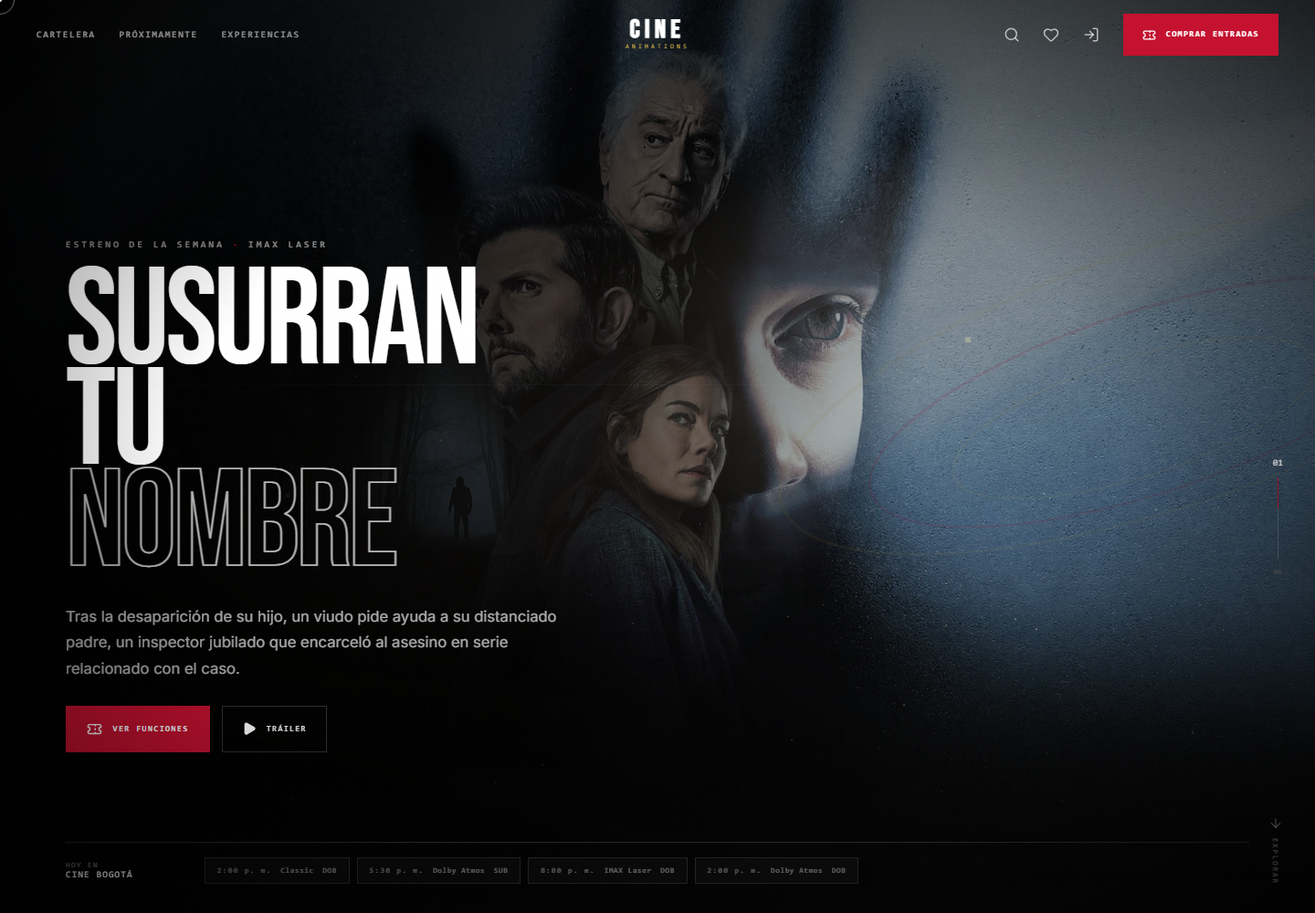
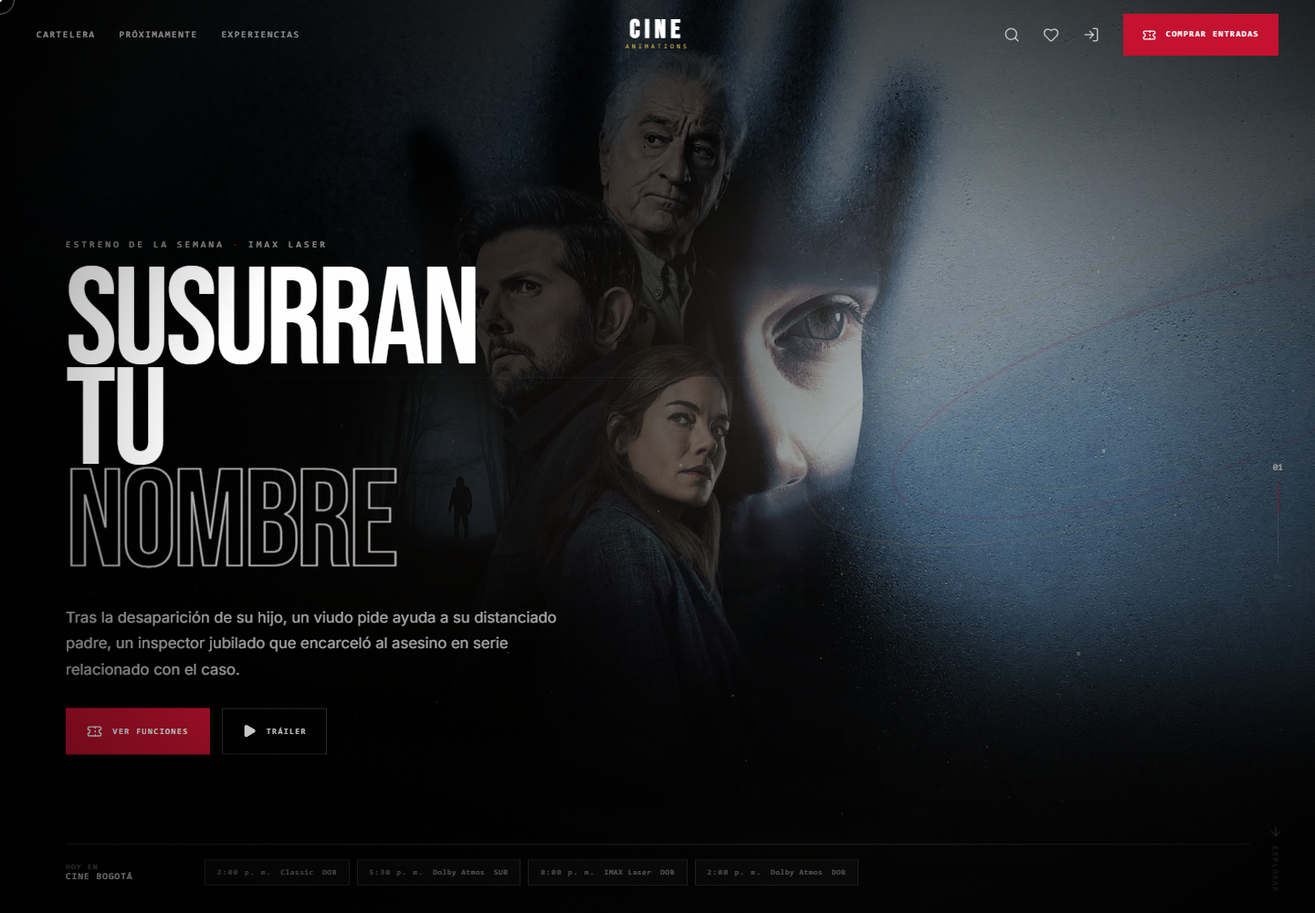
feat: add cinematic editorial discovery modules

diff --git a/src/styles/cinema.css b/src/styles/cinema.css
@@ -36,3 +36,10 @@ body{background:var(--cine-ink)}button,a{-webkit-tap-highlight-color:transparent
 @media(hover:none){.movie-tile__open{transform:scale(1)}.movie-tile__copy button{opacity:1}.movie-frame__copy{transform:none}.discovery-card__actions,.discovery-card__copy{transform:none}.discovery-card__copy small{opacity:1}}
 @media(prefers-reduced-motion:reduce){.hero-atmosphere-3d{display:none}.discovery-card,.discovery-rail header{opacity:1!important;transform:none!important}.discovery-card img,.discovery-card__copy,.discovery-card__actions{transition:none!important}}
 .person-hero__portrait>i{width:100%;height:100%;display:grid;place-items:center;font:clamp(7rem,16vw,16rem) var(--font-display,'Bebas Neue');color:#444;background:radial-gradient(circle,rgba(196,18,48,.18),#171717 65%)}
+.cinema-explorer{background:#e8e4dc;color:#101010;padding:9rem 0 0;overflow:hidden}.talent-radar,.genre-explorer{padding:0 5vw 8rem}.editorial-heading{display:flex;align-items:end;justify-content:space-between;margin-bottom:4rem}.editorial-heading p,.genre-explorer header p{font:8px monospace;letter-spacing:.24em;color:var(--cine-red)}.editorial-heading h2,.genre-explorer h2{font:clamp(4rem,7vw,7rem)/.8 var(--font-display,'Bebas Neue');margin-top:1rem}.editorial-heading h2 em,.genre-explorer h2 em{font-style:normal;color:transparent;-webkit-text-stroke:1px #777}.editorial-heading>span{max-width:260px;font:8px/1.8 monospace;letter-spacing:.08em;color:#777;text-align:right}.talent-radar__track{display:flex;gap:1rem;overflow-x:auto;scrollbar-width:none;padding-bottom:1rem;perspective:1000px}.talent-radar__track::-webkit-scrollbar{display:none}.talent-card{flex:0 0 clamp(145px,15vw,220px);color:#111}.talent-card__portrait{position:relative;display:block;aspect-ratio:1;border-radius:50%;overflow:hidden;background:#ccc}.talent-card__portrait img{width:100%;height:100%;object-fit:cover;filter:saturate(.72);transition:transform .65s,filter .45s}.talent-card__portrait b{position:absolute;right:.5rem;bottom:.5rem;width:32px;height:32px;border-radius:50%;display:grid;place-items:center;background:#0a0a0a;color:#fff;font:7px monospace}.talent-card>strong,.talent-card>small,.talent-card>p{display:block;text-align:center}.talent-card>strong{font:1.25rem var(--font-display,'Bebas Neue');margin-top:.8rem;letter-spacing:.03em}.talent-card>small{font:7px monospace;letter-spacing:.14em;color:var(--cine-red);text-transform:uppercase}.talent-card>p{font-size:.62rem;color:#777;line-height:1.45;margin-top:.45rem}.talent-card:hover img{transform:scale(1.075);filter:saturate(1)}.talent-card--loading>span{display:grid;place-items:center;aspect-ratio:1;border-radius:50%;background:#d8d4cd;color:#aaa}.genre-explorer>header{margin-bottom:3rem}.genre-explorer>div{display:grid;grid-template-columns:repeat(3,1fr);gap:.75rem}.genre-window{position:relative;aspect-ratio:16/7;overflow:hidden;background:#141414;color:#fff}.genre-window img,.genre-window>span{position:absolute;inset:0;width:100%;height:100%}.genre-window img{object-fit:cover;filter:saturate(.65);transition:transform .65s,filter .45s}.genre-window>span{background:linear-gradient(90deg,rgba(0,0,0,.82),rgba(0,0,0,.12))}.genre-window p{position:absolute;z-index:2;left:1.3rem;bottom:1.1rem;font:clamp(1.7rem,3vw,3rem) var(--font-display,'Bebas Neue')}.genre-window svg{position:absolute;z-index:2;right:1.2rem;top:1.2rem;transition:transform .35s}.genre-window:hover img{transform:scale(1.06);filter:saturate(1.05)}.genre-window:hover svg{transform:translateX(5px)}.genre-window--empty{background:linear-gradient(135deg,#151515,#2b2524)}.cine-pulse{background:#0a0a0a;color:#fff;padding:5rem 5vw;display:grid;grid-template-columns:1.5fr repeat(3,1fr) auto;gap:2rem;align-items:center}.cine-pulse__intro>svg{color:var(--cine-gold);margin-bottom:1rem}.cine-pulse__intro>p,.cine-pulse__metric>span{font:7px monospace;letter-spacing:.2em;color:var(--cine-red)}.cine-pulse__intro h3{font:2.4rem/.9 var(--font-display,'Bebas Neue');margin-top:.6rem}.cine-pulse__metric{border-left:1px solid rgba(255,255,255,.12);padding-left:1.2rem}.cine-pulse__metric strong{display:flex;align-items:center;gap:.45rem;font:clamp(2.5rem,4vw,4rem) var(--font-display,'Bebas Neue');color:var(--cine-gold);margin:.45rem 0 .2rem}.cine-pulse__metric small{font-size:.63rem;color:#555}.cine-pulse>a{font:8px monospace;letter-spacing:.13em;color:var(--cine-gold);display:flex;gap:.5rem;align-items:center;white-space:nowrap}
+@media(max-width:1024px){.cine-pulse{grid-template-columns:1fr repeat(3,1fr)}.cine-pulse>a{grid-column:1/-1}.genre-explorer>div{grid-template-columns:repeat(2,1fr)}}
+@media(max-width:768px){.cinema-explorer{padding-top:5rem}.talent-radar,.genre-explorer{padding:0 1.2rem 5rem}.editorial-heading{display:block;margin-bottom:2.5rem}.editorial-heading>span{display:none}.talent-card{flex-basis:42vw}.genre-explorer>div{display:flex;overflow-x:auto;scroll-snap-type:x mandatory}.genre-window{flex:0 0 80vw;scroll-snap-align:start}.cine-pulse{grid-template-columns:1fr 1fr;padding:4rem 1.2rem}.cine-pulse__intro{grid-column:1/-1}.cine-pulse__metric{min-width:0}.cine-pulse__metric:nth-of-type(3){grid-column:1/-1}.cine-pulse>a{grid-column:1/-1}}
+.movie-genres{display:flex;flex-wrap:wrap;gap:.45rem;margin:1rem 0}.movie-genres a{border:1px solid rgba(255,255,255,.2);border-radius:99px;padding:.45rem .7rem;font:7px monospace;letter-spacing:.1em;color:#aaa;transition:.25s}.movie-genres a:hover{border-color:var(--cine-gold);color:var(--cine-gold)}.movie-index{position:relative;z-index:2;background:#0b0b0b;border-block:1px solid rgba(255,255,255,.09);padding:4rem 5vw;display:grid;grid-template-columns:1fr 2.2fr auto;gap:4vw;align-items:center}.movie-index>header p,.movie-index article>span{font:7px monospace;letter-spacing:.18em;color:var(--cine-red)}.movie-index>header h2{font:clamp(2.8rem,5vw,5rem)/.82 var(--font-display,'Bebas Neue');margin-top:.6rem}.movie-index>header h2 em{font-style:normal;color:transparent;-webkit-text-stroke:1px #777}.movie-index>div{display:grid;grid-template-columns:repeat(4,1fr)}.movie-index article{border-left:1px solid rgba(255,255,255,.11);padding-left:1rem}.movie-index article strong{display:flex;align-items:center;gap:.4rem;font:clamp(2rem,3.3vw,3.3rem) var(--font-display,'Bebas Neue');color:var(--cine-gold);margin:.5rem 0 .15rem}.movie-index article small{font-size:.62rem;color:#555}.movie-index>button{min-height:48px;padding:0 1rem;border:1px solid rgba(255,255,255,.18);display:flex;align-items:center;gap:.6rem;font:8px monospace;letter-spacing:.13em;transition:.3s}.movie-index>button:hover{background:#fff;color:#090909}
+@media(max-width:1024px){.movie-index{grid-template-columns:1fr}.movie-index>button{justify-self:start}.movie-index>div{max-width:760px}}
+@media(max-width:768px){.movie-index{padding:4rem 1.2rem}.movie-index>div{grid-template-columns:1fr 1fr;gap:1.5rem 0}.movie-index article:nth-child(3){border-top:1px solid rgba(255,255,255,.1);padding-top:1rem}.movie-index article:nth-child(4){border-top:1px solid rgba(255,255,255,.1);padding-top:1rem}}
+.talent-radar__empty{min-width:100%;min-height:220px;border:1px solid rgba(0,0,0,.1);display:grid;place-content:center;justify-items:center;gap:.8rem;color:#777}.talent-radar__empty p{font-size:.72rem}

diff --git a/src/pages/MoviePage.jsx b/src/pages/MoviePage.jsx
@@ -18,10 +18,14 @@ export default function MoviePage() {
   const director = movie.credits?.crew?.find((person) => person.job === 'Director');
   const cast = movie.credits?.cast?.slice(0, 8) || [];
   const similar = (movie.similar?.results || []).filter((item) => item.poster_path).slice(0, 6);
+  const trailers = (movie.videos?.results || []).filter((video) => video.site === 'YouTube');
+  const mediaCount = trailers.length + (movie.images?.backdrops?.length || 0) + (movie.images?.posters?.length || 0);
+  const compactNumber = (value) => new Intl.NumberFormat('es-CO', { notation: 'compact', maximumFractionDigits: 1 }).format(Number(value || 0));
   return <div className="movie-page">
     <div className="movie-page__backdrop"><img src={TMDB.backdrop(movie.backdrop_path, 'original')} alt="" /><div /></div>
     <Link to="/cartelera" className="movie-page__back"><ArrowLeft size={16} />CARTELERA</Link>
-    <section className="movie-page__hero"><div className="movie-page__poster"><img src={TMDB.poster(movie.poster_path, 'w500')} alt={`Póster de ${movie.title}`} /></div><div className="movie-page__copy"><p>EN CARTELERA · {movie.certification || '12+'}</p><h1>{movie.title}</h1><div className="movie-facts"><span>{movie.release_date?.slice(0, 4)}</span><span>{movie.runtime || 120} MIN</span><span>{movie.genres?.map((genre) => genre.name).join(' · ') || 'CINE'}</span><span><Star size={14} fill="currentColor" /> {Number(movie.vote_average || 0).toFixed(1)}</span></div><p className="movie-page__overview">{movie.overview}</p><div className="movie-credits-inline"><span>DIRIGE</span><strong>{director?.name || 'Información próximamente'}</strong><span>PROTAGONIZAN</span><strong>{cast.slice(0, 3).map((person) => person.name).join(' · ') || 'Reparto por confirmar'}</strong></div><div className="hero-actions"><button onClick={() => openTrailer(movie)} className="button-primary"><Play size={16} fill="currentColor" />VER TRÁILER</button><button onClick={() => queued ? removeFromWatchlist(movie.id) : addToWatchlist(movie)} className="button-ghost"><Bookmark size={16} fill={queued ? 'currentColor' : 'none'} />{queued ? 'EN VER MÁS TARDE' : 'VER MÁS TARDE'}</button><button onClick={() => favorite ? removeFavorite(movie.id) : addFavorite(movie)} className="button-ghost"><Heart size={16} fill={favorite ? 'currentColor' : 'none'} />{favorite ? 'EN FAVORITOS' : 'FAVORITO'}</button></div></div></section>
+    <section className="movie-page__hero"><div className="movie-page__poster"><img src={TMDB.poster(movie.poster_path, 'w500')} alt={`Póster de ${movie.title}`} /></div><div className="movie-page__copy"><p>EN CARTELERA · {movie.certification || '12+'}</p><h1>{movie.title}</h1><div className="movie-facts"><span>{movie.release_date?.slice(0, 4)}</span><span>{movie.runtime || 120} MIN</span><span><Star size={14} fill="currentColor" /> {Number(movie.vote_average || 0).toFixed(1)}</span></div><div className="movie-genres">{movie.genres?.map((genre) => <Link key={genre.id} to={`/cartelera?q=${encodeURIComponent(genre.name)}`}>{genre.name}</Link>)}</div><p className="movie-page__overview">{movie.overview}</p><div className="movie-credits-inline"><span>DIRIGE</span><strong>{director?.name || 'Información próximamente'}</strong><span>PROTAGONIZAN</span><strong>{cast.slice(0, 3).map((person) => person.name).join(' · ') || 'Reparto por confirmar'}</strong></div><div className="hero-actions"><button onClick={() => openTrailer(movie)} className="button-primary"><Play size={16} fill="currentColor" />VER TRÁILER</button><button onClick={() => queued ? removeFromWatchlist(movie.id) : addToWatchlist(movie)} className="button-ghost"><Bookmark size={16} fill={queued ? 'currentColor' : 'none'} />{queued ? 'EN VER MÁS TARDE' : 'VER MÁS TARDE'}</button><button onClick={() => favorite ? removeFavorite(movie.id) : addFavorite(movie)} className="button-ghost"><Heart size={16} fill={favorite ? 'currentColor' : 'none'} />{favorite ? 'EN FAVORITOS' : 'FAVORITO'}</button></div></div></section>
+    <section className="movie-index" aria-label="Índice de la película"><header><p>CINE INDEX</p><h2>LA HISTORIA<br /><em>EN CIFRAS.</em></h2></header><div><article><span>CALIFICACIÓN TMDB</span><strong><Star size={18} fill="currentColor" />{Number(movie.vote_average || 0).toFixed(1)}</strong><small>sobre 10</small></article><article><span>VOTOS</span><strong>{compactNumber(movie.vote_count)}</strong><small>de la comunidad</small></article><article><span>POPULARIDAD</span><strong>{compactNumber(movie.popularity)}</strong><small>pulso actual</small></article><article><span>ARCHIVO MEDIA</span><strong>{String(mediaCount).padStart(2, '0')}</strong><small>videos e imágenes</small></article></div><button onClick={() => openTrailer(movie)}><Play size={16} fill="currentColor" />REPRODUCIR AVANCE</button></section>
     <section className="cast-rail"><div><p>REPARTO</p><h2>Delante y detrás<br /><em>de la cámara.</em></h2></div><div className="cast-rail__list">{cast.length ? cast.map((person) => <Link to={`/persona/${person.id}`} className="cast-person" key={person.id}><span>{person.profile_path ? <img src={TMDB.profile(person.profile_path)} alt={`Fotografía de ${person.name}`} loading="lazy" /> : <i>{person.name.slice(0, 1)}</i>}</span><strong>{person.name}</strong><small>{person.character || 'Reparto'}</small></Link>) : <p className="cast-empty">La información del reparto aún no está disponible.</p>}</div></section>
     <section className="movie-page__showings"><div className="section-heading section-heading--dark"><div><p>FUNCIONES DISPONIBLES</p><h2>Elige cómo<br /><em>quieres verla.</em></h2></div></div><div className="movie-page__times">{showings.slice(0, 9).map((showing) => <ShowtimePill key={showing.id} showing={showing} />)}</div></section>
     <section className="rating-panel"><div><p>TU OPINIÓN DESPUÉS DE LOS CRÉDITOS</p><h2>¿Qué te dejó la película?</h2></div><div className="rating-form"><div className="rating-stars" aria-label="Valorar película">{[1,2,3,4,5].map((score) => <button key={score} disabled={!user} onClick={() => { setRating(score); setReviewSaved(false); }} aria-label={`${score} estrellas`}><Star size={28} fill={score <= rating ? 'currentColor' : 'none'} /></button>)}</div>{user && <><textarea value={review} maxLength={1200} onChange={(event) => setReview(event.target.value)} placeholder="Escribe una reseña breve (opcional)…" /><button disabled={!rating} onClick={async () => { await rateMovie(movie.databaseId || String(movie.id), rating, review); setReviewSaved(true); }} className="button-ghost">{reviewSaved ? 'RESEÑA GUARDADA' : 'PUBLICAR VALORACIÓN'}</button></>}</div>{!user && <Link to={`/acceso?returnTo=/pelicula/${movie.id}`}>Inicia sesión para valorar</Link>}</section>

diff --git a/src/components/CinemaExplorer.jsx b/src/components/CinemaExplorer.jsx
@@ -1,0 +1,70 @@
+import { useEffect, useMemo, useRef, useState } from 'react';
+import { Link } from 'react-router-dom';
+import gsap from 'gsap';
+import { ScrollTrigger } from 'gsap/ScrollTrigger';
+import { ArrowRight, Sparkles, Star, UserRound } from 'lucide-react';
+import { TMDB } from '../api/tmdb';
+
+gsap.registerPlugin(ScrollTrigger);
+
+const FALLBACK_GENRES = ['Drama', 'Ciencia ficción', 'Thriller', 'Animación'];
+
+export default function CinemaExplorer({ movies = [] }) {
+  const rootRef = useRef(null);
+  const [people, setPeople] = useState([]);
+  const [peopleState, setPeopleState] = useState('loading');
+
+  useEffect(() => {
+    let active = true;
+    TMDB.fetchTrendingPeople().then((items) => { if (active) { setPeople(items.filter((person) => person.profile_path).slice(0, 9)); setPeopleState('ready'); } }).catch(() => { if (active) setPeopleState('error'); });
+    return () => { active = false; };
+  }, []);
+
+  const genres = useMemo(() => {
+    const byName = new Map();
+    movies.forEach((movie) => (movie.genres || []).forEach((genre) => {
+      if (!byName.has(genre.name) && movie.backdrop_path) byName.set(genre.name, movie);
+    }));
+    return [...byName.entries()].slice(0, 6);
+  }, [movies]);
+
+  const metrics = useMemo(() => {
+    const rated = movies.filter((movie) => Number(movie.vote_average));
+    const average = rated.length ? rated.reduce((sum, movie) => sum + Number(movie.vote_average), 0) / rated.length : 0;
+    const votes = movies.reduce((sum, movie) => sum + Number(movie.vote_count || 0), 0);
+    return { average, votes };
+  }, [movies]);
+
+  useEffect(() => {
+    if (!people.length || window.matchMedia('(prefers-reduced-motion: reduce)').matches) return undefined;
+    const context = gsap.context(() => {
+      gsap.from('.talent-card', { x: 70, autoAlpha: 0, rotate: 3, stagger: .07, duration: .9, ease: 'power3.out', scrollTrigger: { trigger: '.talent-radar', start: 'top 78%', once: true } });
+      gsap.from('.genre-window', { y: 55, autoAlpha: 0, scale: .96, stagger: .06, duration: .8, ease: 'power3.out', scrollTrigger: { trigger: '.genre-explorer', start: 'top 82%', once: true } });
+      gsap.from('.cine-pulse__metric', { y: 36, autoAlpha: 0, stagger: .09, duration: .75, scrollTrigger: { trigger: '.cine-pulse', start: 'top 86%', once: true } });
+    }, rootRef);
+    return () => context.revert();
+  }, [people]);
+
+  return <section ref={rootRef} className="cinema-explorer">
+    <div className="talent-radar">
+      <header className="editorial-heading"><div><p>03 · PERSONAS EN TENDENCIA</p><h2>ROSTROS QUE<br /><em>MUEVEN LA PANTALLA.</em></h2></div><span>Biografías, créditos y redes verificadas por TMDB.</span></header>
+      <div className="talent-radar__track">{people.length ? people.map((person, index) => <Link to={`/persona/${person.id}`} className="talent-card" key={person.id}>
+        <span className="talent-card__portrait"><img src={TMDB.profile(person.profile_path, 'h632')} alt={`Retrato de ${person.name}`} loading="lazy" /><b>0{index + 1}</b></span>
+        <strong>{person.name}</strong><small>{person.known_for_department || 'Cine'}</small><p>{person.known_for?.slice(0, 2).map((credit) => credit.title || credit.name).join(' · ')}</p>
+      </Link>) : peopleState === 'loading' ? Array.from({ length: 6 }, (_, index) => <div className="talent-card talent-card--loading" key={index}><span><UserRound /></span></div>) : <div className="talent-radar__empty"><UserRound size={24} /><p>El archivo de talento no está disponible por el momento.</p></div>}</div>
+    </div>
+
+    <div className="genre-explorer">
+      <header><p>04 · ENCUENTRA TU TONO</p><h2>EXPLORA POR <em>GÉNERO.</em></h2></header>
+      <div>{genres.length ? genres.map(([genre, movie]) => <Link className="genre-window" to={`/cartelera?q=${encodeURIComponent(genre)}`} key={genre}><img src={TMDB.backdrop(movie.backdrop_path, 'w780')} alt="" loading="lazy" /><span /><p>{genre}</p><ArrowRight size={18} /></Link>) : FALLBACK_GENRES.map((genre) => <Link className="genre-window genre-window--empty" to={`/cartelera?q=${encodeURIComponent(genre)}`} key={genre}><p>{genre}</p><ArrowRight size={18} /></Link>)}</div>
+    </div>
+
+    <div className="cine-pulse">
+      <div className="cine-pulse__intro"><Sparkles size={18} /><p>EL PULSO DE LA SEMANA</p><h3>Datos para elegir.<br />Instinto para reservar.</h3></div>
+      <div className="cine-pulse__metric"><span>VALORACIÓN MEDIA</span><strong><Star size={20} fill="currentColor" />{metrics.average.toFixed(1)}</strong><small>en la selección actual</small></div>
+      <div className="cine-pulse__metric"><span>VOTOS DE COMUNIDAD</span><strong>{new Intl.NumberFormat('es-CO', { notation: 'compact', maximumFractionDigits: 1 }).format(metrics.votes)}</strong><small>señales agregadas de TMDB</small></div>
+      <div className="cine-pulse__metric"><span>HISTORIAS EN RADAR</span><strong>{movies.length.toString().padStart(2, '0')}</strong><small>rotación dinámica semanal</small></div>
+      <Link to="/cartelera">ABRIR CARTELERA <ArrowRight size={15} /></Link>
+    </div>
+  </section>;
+}

diff --git a/src/pages/HomePage.jsx b/src/pages/HomePage.jsx
@@ -13,6 +13,7 @@ import MovieFrames from '../components/MovieFrames';
 import CinemaFooter from '../components/CinemaFooter';
 import AmbientVideo from '../components/AmbientVideo';
 import DiscoveryRails from '../components/DiscoveryRails';
+import CinemaExplorer from '../components/CinemaExplorer';
 import { CINEMA_FORMATS, DEMO_MOVIES } from '../data/cinema';
 
 gsap.registerPlugin(ScrollTrigger);
@@ -23,9 +24,10 @@ export default function HomePage() {
   const heroRef = useRef(null);
   const [movies, setMovies] = useState(() => DEMO_MOVIES.slice(0, 10));
   const [showings, setShowings] = useState([]);
+  const [catalogReady, setCatalogReady] = useState(false);
   const openTrailer = useStore((state) => state.openTrailer);
 
-  useEffect(() => { let active = true; getCinemaMovies('trending', 10).then((items) => { if (!active) return []; setMovies(items); return listShowings({ movies: items }); }).then((items) => { if (active) setShowings(items); }); return () => { active = false; }; }, []);
+  useEffect(() => { let active = true; getCinemaMovies('trending', 10).then((items) => { if (!active) return []; setMovies(items); return listShowings({ movies: items }); }).then((items) => { if (active) setShowings(items); }).finally(() => { if (active) setCatalogReady(true); }); return () => { active = false; }; }, []);
   useEffect(() => {
     if (!movies.length) return undefined;
     const media = gsap.matchMedia();
@@ -53,7 +55,7 @@ export default function HomePage() {
 
   const featured = movies[0];
   const featuredShowings = useMemo(() => featured ? showings.filter((item) => String(item.tmdb_id) === String(featured.id)).slice(0, 4) : [], [showings, featured]);
-  return <div ref={rootRef} className="cinema-home">
+  return <div ref={rootRef} className="cinema-home" data-catalog-ready={catalogReady}>
     <section ref={heroRef} className="cinema-hero" aria-labelledby="hero-title">
       <div className="hero-media">
         <img className="hero-media__image" src={TMDB.backdrop(featured.backdrop_path, 'original')} alt="" fetchPriority="high" />
@@ -78,11 +80,12 @@ export default function HomePage() {
     </section>
 
     <DiscoveryRails seedMovies={movies} />
-
     <section className="format-story">
       <div className="format-story__intro"><p>02 · TRES FORMAS DE VER</p><h2>EL SONIDO NO SE OYE.<br /><span>ATRAVIESA.</span></h2><p>Salas diseñadas como instrumentos: imagen, arquitectura y sonido calibrados para desaparecer cuando empieza la película.</p></div>
       <div className="format-story__panels">{Object.entries(CINEMA_FORMATS).map(([key, detail], index) => <article className="format-panel" key={key}><span>0{index + 1}</span><div><p>{key}</p><h3>{detail.label}</h3><small>{detail.room}</small></div><Link to={`/cartelera?format=${key}`}>DESCUBRIR <ArrowRight size={15} /></Link></article>)}</div>
     </section>
+
+    <CinemaExplorer movies={movies} />
 
     <section className="cinema-finale">
       <div className="cinema-finale__orb" /><p>LA PELÍCULA EMPIEZA ANTES DE LA PANTALLA</p><h2>ELIGE TU<br />PRÓXIMA <em>ESCENA.</em></h2><Link to="/cartelera" className="button-primary">COMPRAR ENTRADAS <ArrowRight size={17} /></Link>

diff --git a/tests/smoke.spec.js b/tests/smoke.spec.js
@@ -7,6 +7,7 @@ test.describe('CINE ANIMATIONS premium flow', () => {
     await expect(page.getByRole('link', { name: 'CINE ANIMATIONS inicio' })).toBeVisible();
     await expect(page.getByText('COMPRAR ENTRADAS').first()).toBeVisible();
     await expect(page.getByText('AHORA EN PANTALLA')).toBeVisible();
+    await expect(page.locator('.cinema-explorer')).toBeAttached();
   });
 
   test('navigates through real showtime and movie routes', async ({ page }) => {
@@ -18,6 +19,7 @@ test.describe('CINE ANIMATIONS premium flow', () => {
     await page.locator('.schedule-row .movie-tile__image').first().click();
     await expect(page).toHaveURL(/\/pelicula\//);
     await expect(page.getByText('FUNCIONES DISPONIBLES')).toBeVisible();
+    await expect(page.locator('.movie-index')).toBeAttached();
   });
 
   test('opens an interactive seat map', async ({ page }) => {
@@ -54,6 +56,7 @@ test.describe('CINE ANIMATIONS premium flow', () => {
   });
 
   test('keeps an anonymous watch-later list on the device', async ({ page }) => {
+    await expect(page.locator('.cinema-home')).toHaveAttribute('data-catalog-ready', 'true', { timeout: 15000 });
     const tile = page.locator('.movie-tile').first();
     await tile.scrollIntoViewIfNeeded();
     await tile.hover();

diff --git a/src/components/MovieFrames.jsx b/src/components/MovieFrames.jsx
@@ -62,7 +62,7 @@ export default function MovieFrames({ movies: suppliedMovies = [] }) {
 
   return <section className="movie-frames" aria-labelledby="movie-frames-title">
     <div className="movie-frames__cinema"><video autoPlay muted loop playsInline poster="/media/cinema-movie-discovery.webp" aria-hidden="true"><source src="/media/cinema-movie-discovery.webm" type="video/webm" /><source src="/media/cinema-movie-discovery.mp4" type="video/mp4" /></video><div /></div>
-    <header><p>03 · ARCHIVO EN MOVIMIENTO</p><h2 id="movie-frames-title">TODAS LAS HISTORIAS.<br /><em>NINGUNA QUIETA.</em></h2><span>Explora el archivo · El movimiento se pausa al pasar el cursor</span></header>
+    <header><p>05 · ARCHIVO EN MOVIMIENTO</p><h2 id="movie-frames-title">TODAS LAS HISTORIAS.<br /><em>NINGUNA QUIETA.</em></h2><span>Explora el archivo · El movimiento se pausa al pasar el cursor</span></header>
     <div className="movie-frames__fade movie-frames__fade--left" /><div className="movie-frames__fade movie-frames__fade--right" />
     {ROWS.map((config, index) => <FrameRow key={config.label} movies={movies} config={config} rowIndex={index} />)}
   </section>;

diff --git a/src/api/tmdb.js b/src/api/tmdb.js
@@ -41,7 +41,7 @@ export const TMDB = {
 
   async fetchMovieDetails(id) {
     return apiFetch(`/movie/${id}`, {
-      append_to_response: 'credits,videos,similar',
+      append_to_response: 'credits,videos,similar,images',
     });
   },
 
@@ -64,6 +64,11 @@ export const TMDB = {
 
   async fetchPersonSearch(query) {
     const data = await apiFetch('/search/person', { query, page: '1' });
+    return data.results;
+  },
+
+  async fetchTrendingPeople() {
+    const data = await apiFetch('/trending/person/week', { page: '1' });
     return data.results;
   },
 

diff --git a/supabase/functions/tmdb-proxy/index.ts b/supabase/functions/tmdb-proxy/index.ts
@@ -1,6 +1,7 @@
 const TMDB_BASE = 'https://api.themoviedb.org/3';
 const ALLOWED_PATHS = [
   /^\/trending\/movie\/(day|week)$/,
+  /^\/trending\/person\/(day|week)$/,
   /^\/movie\/(popular|top_rated|now_playing|upcoming)$/,
   /^\/movie\/\d+$/,
   /^\/search\/movie$/,

diff --git a/vite.config.js b/vite.config.js
@@ -4,6 +4,7 @@ import path from 'path';
 
 const allowedTmdbPaths = [
   /^\/trending\/movie\/(day|week)$/,
+  /^\/trending\/person\/(day|week)$/,
   /^\/movie\/(popular|top_rated|now_playing|upcoming)$/,
   /^\/movie\/\d+$/,
   /^\/search\/movie$/,

diff --git a/README.md b/README.md
@@ -32,6 +32,14 @@ CINE ANIMATIONS combina navegación comercial inmediata con una narrativa visual
 - Archivo con entradas, reservas, favoritos, “Ver más tarde” e historial; las colecciones anónimas permanecen en el dispositivo y se fusionan al iniciar sesión.
 - Login/registro/recuperación full-screen con retorno seguro al flujo de compra.
 
+## Radar editorial
+
+![Explorador editorial con talento, géneros y métricas](docs/images/editorial-explorer.png)
+
+Las referencias de catálogo se reinterpretan como una superficie propia: talento en tendencia enlazado a biografías y filmografías, ventanas por género, señales agregadas de la selección y un índice detallado dentro de cada película.
+
+![Índice de datos de una película](docs/images/movie-index.png)
+
 ## Archivo en movimiento
 
 ![MovieFrames animados con GSAP](docs/images/movie-frames.png)
